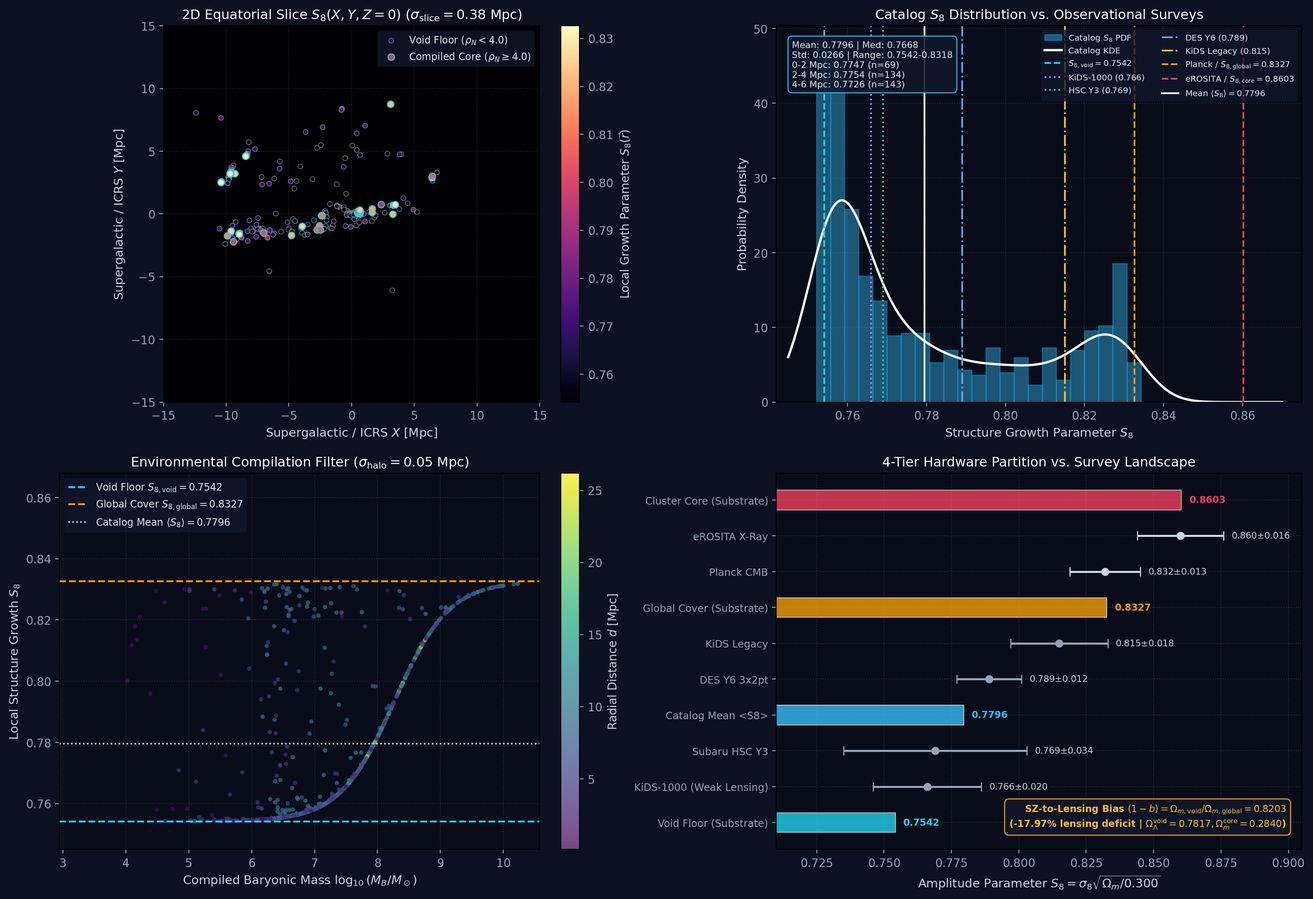
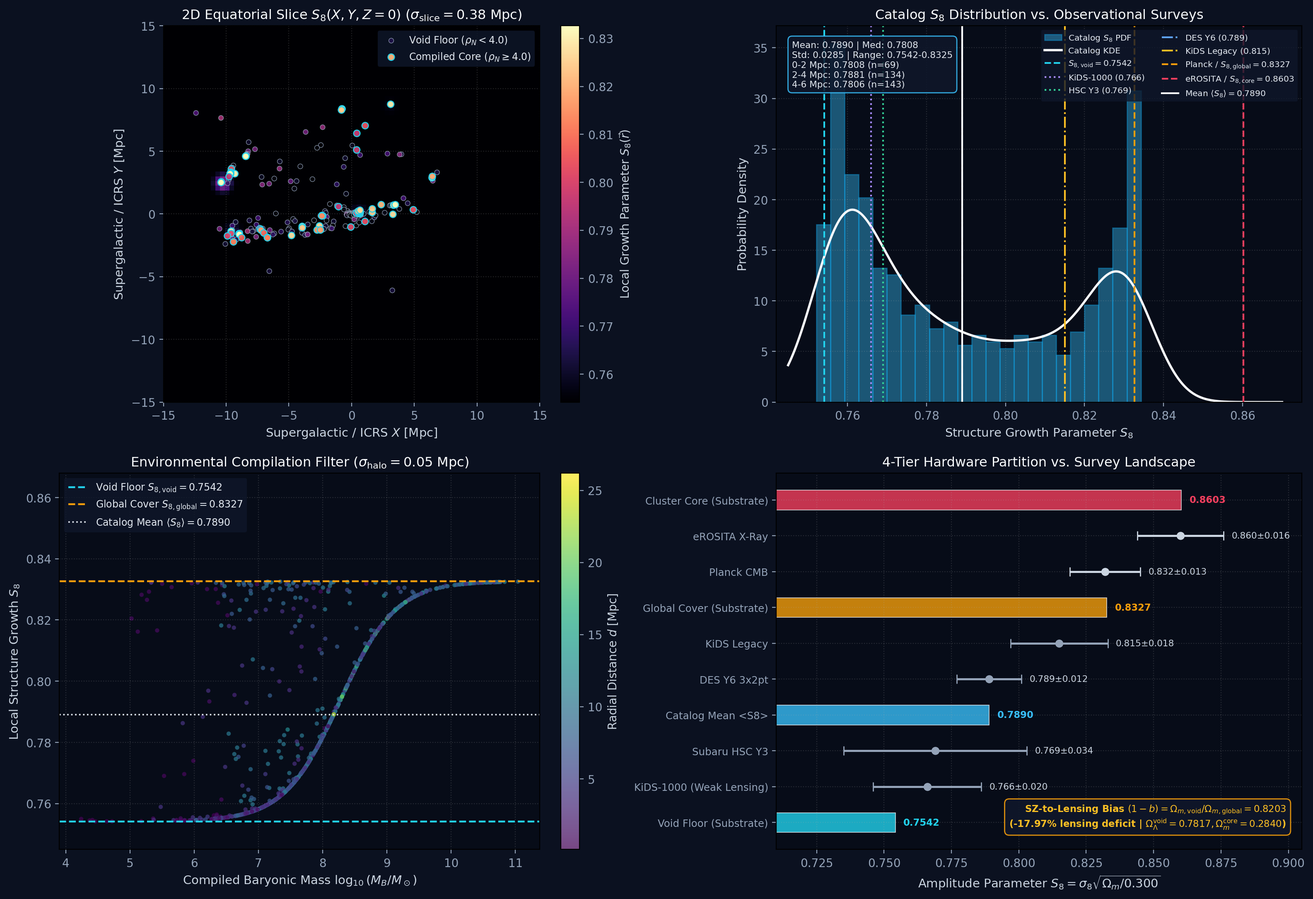
updated documentation and README.md

diff --git a/documentation/readme_substrate_s8_tension.md b/documentation/readme_substrate_s8_tension.md
@@ -2,7 +2,7 @@
 
 ## 🌟 Executive Summary
 
-The `substrate_s8_tension` module resolves the cosmological $S_8$ weak-lensing tension ($S_8 \approx 0.76\text{--}0.77$ from cosmic shear surveys vs. $S_8 \approx 0.832$ from Planck CMB) as a direct environmental consequence of the **120-cell topological compilation filter** at $\rho_{\text{GC}} = 4.0\text{ nodes/m}^3$. Rather than introducing decaying dark matter or modified primordial power spectra, the engine evaluates dynamic local matter partitions $\Omega_m(\vec{r})$ and structure growth amplitudes $S_8(\vec{r})$ straight from 3D compiled baryonic node density $\rho_N(\vec{r})$ across active survey catalogs.
+The `substrate_s8_tension` module resolves the cosmological $S_8$ weak-lensing tension ($S_8 \approx 0.76\text{--}0.77$ from cosmic shear surveys vs. $S_8 \approx 0.832$ from Planck CMB) as a direct environmental consequence of the **120-cell Two-Condition Compilation Gate**: density threshold $\rho_{\text{GC}} = 4.0\text{ nodes/m}^3$ combined with the zero-parameter **Absolute Bandwidth Phase-Lock Criterion** $\Lambda_{\text{lock}} \ge 1.0$. The module contains two coupled observatories (`run_s8_tension_analysis` and `run_two_condition_phase_audit`): evaluating dynamic local matter partitions $\Omega_m(\vec{r})$ and structure growth amplitudes $S_8(\vec{r})$ across active multi-band catalogs, and mapping compiled $\Gamma$-phase matter vs. passive $I$-phase plasma (WHIM filaments, Non-Cool-Core Coma, Solar Wind) across 16 astrophysical regimes.
 
 ---
 
@@ -35,28 +35,65 @@ $$\Omega_{m,\text{core}} = 0.2840 \implies S_{8,\text{core}} = 0.8603$$
 
 $$1 - b = \frac{\Omega_{m,\text{void}}}{\Omega_{m,\text{global}}} = 0.8203 \quad (-17.97\% \text{ lensing mass deficit})$$
 
+### 3. Zero-Parameter Two-Condition Compilation Gate (`evaluate_two_condition_compilation_gate`)
+
+Baryonic gas/matter transitions into active $\Gamma$-phase compiled nodes ($\Theta_{\text{compiled}} = 1$) if and only if both the spatial Garbage-Collection ceiling **and** the Absolute Bandwidth Phase-Lock condition are satisfied:
+
+$$\Theta_{\text{compiled}} = \Theta(\rho_N - 4.0) \cdot \Theta(\Lambda_{\text{lock}} - 1.0), \quad \Lambda_{\text{lock}} = \frac{g_{\text{river}}^2 + g_{\text{EM}}^2}{v_{\text{th}}^2 + v_{\text{bulk}}^2}$$
+
+where $g_{\text{river}}^2 = \frac{2 N_{\text{enc}} \mathcal{K}_\Omega}{R c^2}$, $g_{\text{EM}}^2 = \frac{2 E_{\text{Ryd}}}{\mu m_p c^2}$, and all electromagnetic phase-lock constants are derived without free parameters from $\alpha^{-1} = 137.035999084$ and $m_p/m_e = 1836.15267343$:
+
+$$E_{\text{Ryd}} = \frac{m_p c^2}{2 (m_p/m_e) (\alpha^{-1})^2} = 13.6057\text{ eV} \implies T_{\text{lock}} = \frac{2 E_{\text{Ryd}}}{3 k_B} = 105,258\text{ K}$$
+
+* **Multi-Band Catalog Impact (`UNG 2013` & `Cosmicflows-4`):** Switching from legacy constant $M/L_B = 0.44$ to the `v2` Multi-Band pipeline (`100% K-band` on `UNG 2013`; `27% WISE W1 | 73% Fallback` on `Cosmicflows-4`) shifts catalog $\langle S_8 \rangle$ from `0.7796` → `0.7890` (`UNG 2013`) and `0.8317` → `0.8313` (`Cosmicflows-4`).
+
 ---
 
 ## 📊 Visual Diagnostic Walkthrough
 
+### Tab A — 3D Catalog $S_8$ Field (`run_s8_tension_analysis`)
+
 ![Substrate S8 Weak Lensing Tension Observatory](plot_substrate_s8_tension.png)
 
 1. **Top-Left — 2D Equatorial Slice ($Z = 0$):** Renders continuous $S_8(X, Y, Z=0)$ contours bounded between $S_{8,\text{void}} = 0.7542$ and $S_{8,\text{global}} = 0.8327$, highlighting compiled core galaxies ($\rho_N \ge 4.0$).
-2. **Top-Right — Catalog PDF & 2026 Survey Benchmarks:** Overlays the catalog $S_8$ distribution against KiDS-1000 (`0.766`), Subaru HSC Y3 (`0.769`), DES Y6 (`0.789`), KiDS Legacy (`0.815`), Planck CMB (`0.832`), and eROSITA X-Ray (`0.860`).
+2. **Top-Right — Catalog PDF & 2026 Survey Benchmarks:** Overlays the Multi-Band (`v2`) catalog $S_8$ distribution against KiDS-1000 (`0.766`), Subaru HSC Y3 (`0.769`), DES Y6 (`0.789`), KiDS Legacy (`0.815`), Planck CMB (`0.832`), and eROSITA X-Ray (`0.860`).
 3. **Bottom-Left — Mass-Environment Scaling:** Plots $\log_{10}(M_B/M_\odot)$ against local $S_8$, showing dwarf voids locked onto $0.7542$ while massive compiled systems climb toward $0.8327$.
 4. **Bottom-Right — 4-Tier Partition & Cluster Bias:** Contrasts all four Substrate hardware partitions directly against weak-lensing, CMB, and X-ray survey error bars with the zero-parameter $(1-b) = 0.8203$ bias badge.
+
+### Tab B — Two-Condition Compilation Gate & Cool-Core ICM (`run_two_condition_phase_audit`)
+
+![Two-Condition Compilation Gate & Cool-Core ICM Transition](plot_substrate_two_condition_phase_gate.png)
+
+1. **Left — 4-Quadrant Compilation Phase Diagram ($\log_{10}\rho_N$ vs. $\log_{10}\Lambda_{\text{lock}}$):**
+   * **Sub-Threshold Void Floor (`C1 = 0`, `PASSIVE`):** `Cosmic Void`, `Diffuse IGM`.
+   * **Super-Density Passive $I$-Phase Plasma (`C1 = 1, C2 = 0`, `PASSIVE`):** `Dense WHIM Filament`, `Cluster Outskirts (r500)`, `Hot Galactic Halo / CGM`, `Non-Cool-Core Coma`, `Cool-Core Perseus (20 kpc)`, and outbound `Solar Wind (1 AU)` ($v_{\text{bulk}} = 440\text{ km/s}$).
+   * **Compiled $\Gamma$-Phase Matter (`C1 = 1, C2 = 1`, `COMPILED`):** `Cool-Core Perseus (5 kpc)`, `Cool-Core H-alpha Filaments`, `DDO 154 HI Disk`, `Cold ISM / GMC`, `99942 Apophis`, `Earth`, `Sun`, and `Crab Pulsar`.
+2. **Right — Cool-Core vs. Non-Cool-Core ICM Radial Transition ($\Lambda_{\text{lock}}(r)$, `1–300 kpc`):** Demonstrates Cool-Core Perseus crossing into the compiled $\Gamma$-phase inside $r_{\text{lock}} = 5.42\text{ kpc}$ near its central BCG, whereas hot Non-Cool-Core Coma remains strictly passive ($\Lambda_{\text{lock}} < 0.03$) everywhere — yielding a falsifiable $(1-b)$ lensing split between relaxed cool-core and merging non-cool-core clusters.
 
 ---
 
 ## 🎯 KPI Metrics & Export Deliverables
 
+### Tab A (`substrate_s8_weak_lensing_field.csv`)
+
 | Metric Key | Format / Benchmark | Physical Meaning |
 | :--- | :--- | :--- |
 | `Void Floor (S8_void)` | `0.7542` | Bare uncompiled void structure growth limit $`S_{8,\text{void}}`$. |
-| `Catalog Mean <S8>` | Float (`.4f`) | Mean $`\langle S_8 \rangle`$ across evaluated survey galaxies. |
+| `Catalog Mean <S8>` | Float (`.4f`) | Mean $`\langle S_8 \rangle`$ across evaluated survey galaxies (`0.7890` UNG `v2`, `0.8313` CF4 `v2`). |
 | `Global Baseline (S8_global)` | `0.8327` | Compiled full-cover amplitude $`S_{8,\text{global}}`$ matching Planck CMB. |
 | `Cluster Core (S8_core)` | `0.8603` | Saturated cluster core amplitude $`S_{8,\text{core}}`$ matching eROSITA X-Ray. |
 | `SZ-Lensing Bias (1 - b)` | `0.8203 (-17.97%)` | Zero-parameter hydrostatic bias ratio $`\Omega_{m,\text{void}} / \Omega_{m,\text{global}}`$. |
 
-* **CSV Export Schema (`substrate_s8_weak_lensing_field.csv`):**
-  * `galaxy_name`, `distance_mpc`, `baryonic_mass_solar`, `rho_N_nodes_m3`, `theta_activation`, `omega_m_local`, `S8_local`.
+* **CSV Columns:** `galaxy_name`, `distance_mpc`, `baryonic_mass_solar`, `rho_N_nodes_m3`, `theta_activation`, `omega_m_local`, `S8_local`.
+
+### Tab B (`substrate_two_condition_phase_gate.csv`)
+
+| Metric Key | Format / Benchmark | Physical Meaning |
+| :--- | :--- | :--- |
+| `Bohr Unlock Temp (T_lock)` | `105,258 K (13.61 eV)` | Electromagnetic phase-lock thermal limit derived from $`E_{\text{Ryd}}`$. |
+| `Benchmarks Compiled` | `8 / 16 Regimes` | Verified count passing both `C1` and `C2` (`8 PASSIVE / 8 COMPILED`). |
+| `Cool-Core Crossover (r_lock)` | `5.42 kpc (Perseus)` | Inner cluster radius where Perseus ICM crosses $`\Lambda_{\text{lock}} \ge 1.0`$. |
+| `Custom Probe Λ_lock` | Scientific (`.3e`) | Live user-configured parcel phase-lock ratio $`\Lambda_{\text{lock}}`$. |
+| `Custom Gate Verdict` | `COMPILED` / `PASSIVE` | Active compilation gate state ($\Gamma$-Phase vs. $I$-Phase). |
+
+* **CSV Columns:** `Regime`, `rho_N_nodes_m3`, `T_K`, `r_grav`, `r_em`, `Lambda_lock`, `Cond1_rho>=4`, `Cond2_Lock>=1`, `Verdict`.

diff --git a/README.md b/README.md
@@ -6,7 +6,7 @@
 [![Python 3.10+](https://img.shields.io/badge/python-3.10+-3776AB.svg?style=flat&logo=python&logoColor=white)](https://www.python.org/)
 [![License: MIT](https://img.shields.io/badge/License-MIT-yellow.svg)](LICENSE)
 
-An interactive, first-principles cosmological simulation engine and observatory. **Substrate Logistics** replaces empirical curve-fitting parameters (Dark Energy $\Omega_\Lambda$, Cold Dark Matter halos, and FLRW single-scalar constraints) with a zero-parameter metric unspooling framework driven directly by 3D compiled matter density fields $\rho_N(\vec{r})$ across real astronomical catalogs (UNG 2013, Cosmicflows-4, 2M++).
+An interactive, first-principles cosmological simulation engine and observatory. **Substrate Logistics** replaces empirical curve-fitting parameters (Dark Energy $\Omega_\Lambda$, Cold Dark Matter halos, and FLRW single-scalar constraints) with a zero-parameter metric unspooling framework driven directly by 3D compiled matter density fields $\rho_N(\vec{r})$ across real astronomical catalogs (`UNG 2013`, `Cosmicflows-4`, `2M++`) via a **4-tier Multi-Band & Color-Dependent Stellar Mass Pipeline** (near-IR $K_s$, WISE W1, Bell+03 $B-V$, with legacy constant $M/L$ comparison toggle) and the zero-parameter **Two-Condition Compilation Gate**.
 
 ---
 
@@ -30,6 +30,7 @@ Before exploring the individual modules, read our **[Comparative Architecture Gu
 | **Structure Growth** | $S_8$ | `0.7542 / 0.8327` | Void / Global 120-cell partition |
 | **Disk Truncation Cliff** | $`\frac{1}{2}\ln(1/\mathcal{C}_\delta)`$ | `3.8291` | $R_d$ (2D exponential disk cutoff) |
 | **BAO Natural Ruler** | $r_s$ | `149.25` | $\text{Mpc}$ (First-principles acoustic scale) |
+| **Bohr Phase-Lock Scale** | $`E_{\text{Ryd}} / T_{\text{lock}}`$ | `13.6057 eV / 105,258 K` | Zero-parameter EM unlock ($\alpha^{-1}$, $m_p/m_e$) |
 
 ---
 
@@ -91,7 +92,7 @@ Focuses on bare-metal geometric rulers, hybrid CMB dipole shifts, and optical li
 | **BAO Ruler Warping** | <img src="documentation/plot_substrate_bao_ruler_warping.png" width="300" alt="BAO Ruler Warping" /> | Alcock-Paczynski anisotropic distortion of the $149.25\text{ Mpc}$ acoustic sphere across local filament structures. | [Read Documentation](documentation/readme_substrate_bao_ruler_warping.md) |
 | **CMB Dipole Anomaly** | <img src="documentation/plot_substrate_cmb_dipole_anomaly.png" width="300" alt="CMB Dipole Anomaly" /> | Hybrid Solar motion + line-of-sight redshifting vector sum (J2000 Galactic-to-ICRS aligned), shifting the observable dipole axis toward Centaurus. | [Read Documentation](documentation/readme_substrate_cmb_dipole_anomaly.md) |
 | **Gravitational Lensing** | <img src="documentation/plot_substrate_galactic_lensing.png" width="300" alt="Gravitational Lensing" /> | Zero-dark-matter light deflection separating $1/b$ baryonic address deletion from the linear unspooling tax $4 a_\Omega b / c^2$ and $(1-b) = 0.8203$ cluster bias. | [Read Documentation](documentation/readme_substrate_galactic_lensing.md) |
-| **$S_8$ Weak Lensing Tension** | <img src="documentation/plot_substrate_s8_tension.png" width="300" alt="S8 Weak Lensing Tension" /> | Resolves the weak lensing vs. Planck tension via the $\rho_N \ge 4.0$ compilation filter: $`S_{8,\text{void}} = 0.7542`$, $`S_{8,\text{global}} = 0.8327`$, $`S_{8,\text{core}} = 0.8603`$, and $(1-b)=0.8203$ bias. | [Read Documentation](documentation/readme_substrate_s8_tension.md) |
+| **$S_8$ Weak Lensing Tension** | <img src="documentation/plot_substrate_s8_tension.png" width="300" alt="S8 Weak Lensing Tension" /> | Resolves the weak lensing vs. Planck tension via the **Two-Condition Compilation Gate** ($`\Theta(\rho_N - 4)\Theta(\Lambda_{\text{lock}} - 1)`$): 3D catalog $S_8$ field ($`S_{8,\text{void}} = 0.7542`$, $`S_{8,\text{global}} = 0.8327`$, $`S_{8,\text{core}} = 0.8603`$, $(1-b)=0.8203$) plus 16-regime phase diagram & Cool-Core `r_lock = 5.42 kpc` ICM explorer. | [Read Documentation](documentation/readme_substrate_s8_tension.md) |
 
 ---
 
@@ -191,6 +192,26 @@ This cosmological simulation engine and observatory is grounded in the **Substra
 
 ---
 
+## 📡 Multi-Band Stellar Mass Pipeline & Local Volume Audit
+
+The shared catalog engine ([`modules/data_loader.py`](modules/data_loader.py)) removes the legacy single-band constant `M/L_B = 0.44` dial via a vectorized 4-tier photometric mass estimator (`compute_multiband_stellar_nodes`) persisted in `*_v2.npz` caches (with graceful offline fallback to `v1` caches and a live sidebar toggle between **Multi-Band / Color-Dependent** and **Legacy Constant M/L**):
+
+1. **Tier 1 — Near-IR $K_s$-band (`M/L_K = 0.60`, $M_{K,\odot} = 3.27$):** McGaugh & Schombert (2014) near-IR mass-to-light calibration (full coverage in `UNG 2013` and `2M++` `Ksmag`).
+2. **Tier 2 — Near-IR WISE W1 (`M/L_W1 = 0.50`, $M_{W1,\odot} = 3.24$ Vega):** Lelli et al. (2016) calibration; for `Cosmicflows-4`, cross-matched by `PGC` ID against Kourkchi et al. (2020, `J/ApJ/902/145`) with Jarrett et al. (2011) `W1_Vega = W1_AB - 2.699` conversion.
+3. **Tier 3 — Optical $B - V$ Color (Bell et al. 2003, Table 7):** $\log_{10}(M/L_B) = -0.942 + 1.737(B-V) - 0.15$ (Chabrier/Kroupa IMF offset), clamped to `[0.10, 4.00]`.
+4. **Tier 4 — Single-Band Legacy Fallback:** Falls back to single-band `default_m_l` when multi-band photometry is unavailable.
+
+| Catalog | Mode | N | Photometry Provenance | $`\rho_N(\le 10\text{ Mpc})`$ [nodes/m³] | $`H_{\text{local}}(\le 10\text{ Mpc})`$ [km/s/Mpc] | Module 17 `<S8>` |
+| :--- | :--- | ---: | :--- | ---: | ---: | ---: |
+| UNG 2013 | `legacy` | 846 | Legacy Constant `M/L` (`v2`) | `0.00251` | `68.92` | `0.7796` |
+| UNG 2013 | `multiband` | 846 | `100% K-band` (`v2`) | `0.01279` | `70.80` | `0.7890` |
+| Cosmicflows-4 | `legacy` | 17,511 | Legacy Constant `M/L` (`v2`) | `0.00107` | `68.40` | `0.8317` |
+| Cosmicflows-4 | `multiband` | 17,511 | `27% WISE W1 \| 73% Fallback` (`v2`) | `0.00228` | `68.85` | `0.8313` |
+
+*Inside the `10 Mpc` Local Volume, switching `UNG 2013` from legacy `B`-band to 100% near-IR `K`-band lifts `H_local` from `68.92` to `70.80 km/s/Mpc` (`+1.00 km/s/Mpc` vs. CCHP TRGB `69.8 ± 1.9`, `-2.24 km/s/Mpc` vs. SH0ES `73.04 ± 1.04`).*
+
+---
+
 ## 🧪 Verification Benchmark & CLI
 
 Run the headless 18-module verification harness directly from the repository root using [`tools/benchmark_dashboard.py`](tools/benchmark_dashboard.py):
@@ -202,7 +223,9 @@ python tools/benchmark_dashboard.py
 This benchmark validates:
 1. Exact closed-form first-principles constants derived in [`modules/data_loader.py`](modules/data_loader.py) without CODATA $G$.
 2. Orthogonal J2000 Galactic-to-ICRS sky coordinate alignment (`R_GAL_TO_ICRS`) verified against `astropy.coordinates.SkyCoord` (`< 1e-14` error).
-3. Headless execution across all **18 computational modules** (with real local catalog caches or deterministic fallback), verifying non-empty output tables, zero `NaN`/`Inf` numeric values, and clean Matplotlib renders alongside physics regression checks.
+3. Headless execution across all **18 computational modules** under `mass_mode="multiband"` (with real local catalog caches or deterministic fallback), verifying non-empty output tables, zero `NaN`/`Inf` numeric values, and clean Matplotlib renders alongside physics regression checks.
+4. Zero-parameter **Two-Condition Compilation Gate** regression checks verifying `E_Ryd = 13.6057 eV`, `T_lock = 105,258.34 K`, Cool-Core Perseus `r_lock = 5.42 kpc`, and exact `8 PASSIVE / 8 COMPILED` verdicts across all 16 astrophysical regimes.
+5. **4-Tier Photometric Mass Audit** unit tests and side-by-side `legacy` vs. `multiband` Local Volume `rho_N(<=10 Mpc)`, `H_local`, and `<S8>` comparisons.
 
 ---
 

diff --git a/documentation/readme_spatial_garbage_collection_engine.md b/documentation/readme_spatial_garbage_collection_engine.md
@@ -67,10 +67,10 @@ $$\text{Capacity Used} = \min\left(100, \frac{v_{\text{inflow}}}{c} \times 100\r
 
 * **Algorithmic Pipeline:**
 1. **Load Evaluation:** Computes total compiled proton node count $N = M / m_p$.
-2. **Horizon Computation:** Derives exact speed-of-light commit horizon radius $R_{\text{lock}}$.
+2. **Horizon & Quantum Boundary Computation:** Derives exact speed-of-light commit horizon radius $R_{\text{lock}}$ and top-down quantum boundary radius $R_{\text{quantum}} = (c\bar{\lambda}_p) / (\mathcal{T}_\Omega \sqrt{(\bar{\lambda}_p / N) g_{\text{surface}}})$ (`6,371.20 km` for Earth).
 3. **Grid Construction:** Generates a logarithmic 1D spatial grid $r \in [R_{\text{min}}, R_{\text{max}}]$ across $N_{\text{pts}} = 250$ radial shells.
 4. **Field Evaluation:** Solves address deletion acceleration $g_\Omega(r)$, inflow velocity $v_{\text{inflow}}(r)$, low-orbit bypass velocity $v_{\text{orbit}}(r)$, and discrete sub-node voxel deletion rate $\dot{N}_{\text{pixels}}(r)$.
-5. **UI Rendering:** Assembles a 2-panel dark Matplotlib figure, metric cards, and export DataFrame.
+5. **UI Rendering:** Assembles a 2-panel dark Matplotlib figure, metric cards, magnetospheric shells ($3R$, $4R$, $6.784R$), black-hole boundary unspooling badge, and export DataFrame.
 
 
 
@@ -78,7 +78,7 @@ $$\text{Capacity Used} = \min\left(100, \frac{v_{\text{inflow}}}{c} \times 100\r
 
 ## 📊 Visual Diagnostic Output & Graphics
 
-* **Panel 1 (Spatial Coordinate Address Inflow Profile):** Plots inward address freefall velocity $v_{\text{inflow}}(r)$ alongside the physical boundary radius. For sub-light bodies ($v_{\text{surf}} < 0.5c$), the panel displays an inline **Kernel Lock Safety Badge** with processing headroom percentage. For relativistic targets ($v_{\text{surf}} \ge 0.5c$), it renders the speed-of-light limit line ($1.0c$) and the vertical Event Horizon boundary ($R_{\text{lock}}$).
+* **Panel 1 (Spatial Coordinate Address Inflow Profile):** Plots inward address freefall velocity $v_{\text{inflow}}(r)$ alongside the physical boundary radius. For sub-light bodies ($v_{\text{surf}} < 0.5c$), the panel displays an inline **Kernel Lock Safety Badge** with processing headroom percentage plus vertical markers at the Plasmapause ($3R$, when $r_{\max}/R \ge 4$), Van Allen ($4R$), and Topological Drag Stagnation limit ($6.784R$, when $r_{\max}/R \ge 7$). For Kernel Lock targets ($v_{\text{surf}}/c \ge 0.999$), it renders the speed-of-light limit line ($1.0c$), vertical Event Horizon boundary ($R_{\text{lock}}$), and the crimson **`BOUNDARY UNSPOOLING ACTIVE (R_EH): Γ-Phase Matter → I-Phase Radiation (E = mc² Cache Flush)`** badge.
 * **Panel 2 (Substrate Memory Garbage Collection Intensity):** Plots discrete spatial voxel deletion rate $\dot{N}_{\text{pixels}}(r)$ in pixels/second on a logarithmic scale, mapping memory management load across the surrounding space.
 
 ---
@@ -92,6 +92,7 @@ $$\text{Capacity Used} = \min\left(100, \frac{v_{\text{inflow}}}{c} \times 100\r
 | `Escape Velocity (v_escape)` | `km/s` ($c$ ratio) | Inward spatial address freefall velocity $`v_{\text{inflow}} = \sqrt{2 g_\Omega R}`$. |
 | `Low-Orbit Speed (v_orbit)` | `km/s` | Circular orbit bypass speed $`v_{\text{orbit}} = v_{\text{inflow}} / \sqrt{2}`$. |
 | `Surface Pixel Purge Rate` | `pixels/s` | Discrete sub-node voxels ($V_{\text{node}} = 9.3019 \times 10^{-48}\text{ m}^3$) deleted per second. |
+| `Top-Down Quantum Radius` | `km` (`6,371.20 km` Earth) | Top-down holographic boundary $`R_{\text{quantum}} = \frac{c\bar{\lambda}_p}{\mathcal{T}_\Omega\sqrt{(\bar{\lambda}_p/N)g_{\text{surf}}}}`$. |
 | `Kernel Lock Safety Margin` | `%` | Processing headroom remaining $\max(0, 1.0 - v/c) \times 100\%$. |
 
 * **CSV Export Schema (`spatial_garbage_collection_profile.csv`):**

diff --git a/documentation/Comparative Architecture Guide.md b/documentation/Comparative Architecture Guide.md
@@ -20,7 +20,7 @@ $$H_{\text{local}}(\vec{r}) = H_{\text{global}} + \sqrt{\frac{8\pi \mathcal{K}_\
 
 
 * **Integrated Ray-Tracing Path:** Photon redshift accumulation is evaluated via direct line-of-sight path integration through the actual 3D cosmic web ($cz_{\text{exp}} = \int_0^d H_{\text{local}}(s) \, ds$), eliminating the artificial separation between expansion and peculiar velocity.
-* **Zero-Parameter Convergence:** Unspooling dynamically adapts to the matter distribution along the sightline. Evaluating small, dense volumes reflects local filament density, while integrating over large homogenizing volumes ($\ge 40\text{ Mpc}$) automatically relaxes the average unspooling rate down to the fundamental vacuum floor ($H_{\text{global}} = 67.4275\text{ km/s/Mpc}$).
+* **Zero-Parameter Convergence & Phase Gating:** Unspooling dynamically adapts to the matter distribution along the sightline. Evaluating small, dense volumes reflects local filament density, while integrating over large homogenizing volumes ($\ge 40\text{ Mpc}$) automatically relaxes the average unspooling rate down to the fundamental vacuum floor ($H_{\text{global}} = 67.4275\text{ km/s/Mpc}$). Furthermore, the **Two-Condition Compilation Gate** ($\Theta(\rho_N - 4.0)\,\Theta(\Lambda_{\text{lock}} - 1.0)$ with $T_{\text{lock}} = 105,258\text{ K}$) ensures that hot diffuse WHIM/ICM plasma remains passive $I$-phase gas rather than falsely sourcing compiled gravity.
 
 ---
 
@@ -41,5 +41,5 @@ $$H_{\text{local}}(\vec{r}) = H_{\text{global}} + \sqrt{\frac{8\pi \mathcal{K}_\
 
 In Substrate Logistics, the **73 km/s/Mpc** and **67.4 km/s/Mpc** values are not in conflict—they measure two distinct physical regimes:
 
-1. **Local Distance Ladder (73–74 km/s/Mpc):** Standard candles (TRGB, Cepheids, SNe Ia) reside within dense local cosmic web filaments ($d < 30\text{--}100\text{ Mpc}$). Photons traversing these overdense corridors accumulate velocity faster due to elevated local node density $\rho_N(\vec{r})$.
+1. **Local Distance Ladder (69.8–74 km/s/Mpc):** Standard candles (TRGB, Cepheids, SNe Ia) reside within dense local cosmic web filaments ($d < 30\text{--}100\text{ Mpc}$). Replacing the single `M/L_B = 0.44` dial with the **4-Tier Multi-Band Stellar Mass Pipeline** (`100% K-band` on `UNG 2013`) raises the enclosed `<= 10 Mpc` density from `0.00251` to `0.01279 nodes/m³`, shifting `H_local(<= 10 Mpc)` from `68.92` to **`70.80 km/s/Mpc`** (`+1.00 km/s/Mpc` vs. CCHP TRGB `69.8 ± 1.9`, `-2.24 km/s/Mpc` vs. SH0ES `73.04 ± 1.04`), while `Cosmicflows-4` (`27% WISE W1`) evaluates to `68.85 km/s/Mpc` at `10 Mpc`.
 2. **CMB Horizon Fits (67.4275 km/s/Mpc):** Sound horizon acoustic peak measurements average across vast, homogenized cosmological distances ($\ge 1000\text{ Mpc}$). Over these immense scales, density spikes average out across empty cosmic voids, locking the global unspooling rate directly onto the fundamental vacuum floor $H_{\text{global}} = 67.4275\text{ km/s/Mpc}$.

diff --git a/documentation/readme_substrate_galactic_lensing.md b/documentation/readme_substrate_galactic_lensing.md
@@ -93,7 +93,7 @@ $$b_{1:1,\text{total}} = \sqrt{\frac{M_{\text{baryon}} \mathcal{K}_\Omega M_\odo
 ## 📊 Visual Diagnostic Output & Graphics
 
 * **Panel 1 (Light Deflection Profile):** Plots total deflection angle $\theta_{\text{total}}(b)$ [red], local baryonic component $\theta_{\text{baryon}}(b)$ [dashed blue], and scaffolding tax $\theta_{\text{scaffold}}(b)$ [dotted purple]. A vertical green guide line highlights the crossover focus $b_{\text{cross}}$ where deflection parity ($50\%$) occurs.
-* **Panel 2 (Dark Matter Halo Illusion):** Plots inferred halo mass $M_{\text{DM}}(b) \propto b^2$ [solid orange] against the true baryonic baseline $M_{\text{baryon}}$ [dashed blue]. A vertical cyan guide line marks the $1:1$ Total Mass Horizon $b_{1:1}$ where $M_{\text{DM,inferred}} = M_{\text{baryon,total}}$.
+* **Panel 2 (Dark Matter Halo Illusion):** Plots inferred halo mass $M_{\text{DM}}(b) \propto b^2$ [solid orange] against the true baryonic baseline $M_{\text{baryon}}$ [dashed blue]. A vertical cyan guide line marks the $1:1$ Total Mass Horizon $b_{1:1}$ where $M_{\text{DM,inferred}} = M_{\text{baryon,total}}$. For cluster-scale lenses ($M_B \ge 10^{12} M_\odot$), a dash-dot magenta horizontal reference line marks the **Weak-Lensing Hydrostatic Baseline** $(1-b) M_B = 0.8203\,M_B$ linking lensing directly to the $S_8$ 120-cell compilation filter (and cool-core vs. non-cool-core phase-lock split).
 
 ---
 
@@ -107,6 +107,7 @@ $$b_{1:1,\text{total}} = \sqrt{\frac{M_{\text{baryon}} \mathcal{K}_\Omega M_\odo
 | `1:1 Total Mass Horizon (b_1:1)` | `kpc` | Impact parameter where $`M_{\text{DM,inferred}} = M_{\text{baryon,total}}`$. |
 | `Deflection @ Crossover` | `arcsec` | Optical light bending angle evaluated at $b_{\text{cross}}$. |
 | `Total Dark/Light @ b_cross` | Ratio (e.g., `0.43 : 1`) | Inferred dark mass relative to total visible baryonic mass at $b_{\text{cross}}$. |
+| `SZ-Lensing Cluster Bias (1-b)` | `0.8203 (-17.97%)` | Zero-parameter hydrostatic cluster mass bias ratio $`\Omega_{m,\text{void}} / \Omega_{m,\text{global}}`$. |
 
 ### CSV Export Schema (`substrate_gravitational_lensing.csv`)
 

diff --git a/documentation/readme_substrate_cmb_dipole_anomaly.md b/documentation/readme_substrate_cmb_dipole_anomaly.md
@@ -107,8 +107,9 @@ The module outputs a full-sky Mollweide projection map ($\Delta T(\theta, \phi)$
 
 ### Survey Catalog Response & Field Scaling (J2000 Galactic-to-ICRS Aligned)
 
-* **UNG 2013 ($\le 35\text{ Mpc}$, $\sigma = 1.8\text{ Mpc}$):** Net shifted dipole axis at `(264.7°, +47.6°)` with composite amplitude `3.297 mK`.
-* **Cosmicflows-4 ($\le 150\text{ Mpc}$, $\sigma = 2.0\text{ Mpc}$):** Integrates across the Great Attractor and Laniakea corridors, shifting the dipole axis to `(270.5°, +43.7°)` (~`6.2°` angular shift, `2.934 mK`).
-* **2M++ Infrared ($\le 200\text{ Mpc}$, $\sigma = 3.5\text{ Mpc}$):** Full-sky coverage out to $200\text{ Mpc}$ shifts the net dipole axis to `(259.6°, +51.7°)` (~`4.7°` shift, `2.959 mK`).
+* **UNG 2013 ($\le 35\text{ Mpc}$, $\sigma = 1.8\text{ Mpc}$, Legacy `M/L`):** Net shifted dipole axis at `(264.7°, +47.6°)` with composite amplitude `3.297 mK`.
+* **Cosmicflows-4 ($\le 150\text{ Mpc}$, $\sigma = 2.0\text{ Mpc}$, Legacy `M/L`):** Integrates across the Great Attractor and Laniakea corridors, shifting the dipole axis to `(270.5°, +43.7°)` (~`6.2°` angular shift, `2.934 mK`).
+* **2M++ Infrared ($\le 200\text{ Mpc}$, $\sigma = 3.5\text{ Mpc}$, Legacy `M/L`):** Full-sky coverage out to $200\text{ Mpc}$ shifts the net dipole axis to `(259.6°, +51.7°)` (~`4.7°` shift, `2.959 mK`).
+* **Multi-Band Photometry (`v2` Cache) Shift:** Switching to the Multi-Band Stellar Mass Pipeline updates per-galaxy compiled weights (`27% WISE W1` on Cosmicflows-4, `Ksmag` on 2M++, `100% K-band` on UNG 2013) and automatically invalidates cached HEALPix maps via `catalog_sig` (e.g., Cosmicflows-4 at `d_max=35 Mpc`, `nside=16`: axis `(266.3°, +47.5°)`, `3.118 mK`).
 
 ---

diff --git a/documentation/readme_substrate_bulk_flow_field.md b/documentation/readme_substrate_bulk_flow_field.md
@@ -17,7 +17,7 @@ $$H_{\text{local}}(\vec{r}) = H_{\text{global}} + \Theta(\rho_N(\vec{r}) - \rho_
 Where:
 * $H_{\text{global}} = 67.4275\text{ km/s/Mpc}$ is the global hardware vacuum floor.
 * $\mathcal{K}_\Omega = 1.11592 \times 10^{-37}\text{ m}^3/(\text{node}\cdot\text{s}^2)$ is the Substrate Anchor Constant.
-* $\Theta$ enforces the Garbage Collection compilation threshold ($\rho_{\text{threshold}} = 4.0\text{ nodes/m}^3$), which applies at the stellar/galactic phase level prior to Mpc-scale Gaussian smoothing.
+* $\Theta$ enforces the Two-Condition Compilation Gate ($\Theta(\rho_N - 4.0)\,\Theta(\Lambda_{\text{lock}} - 1.0)$ with Bohr thermal unlock scale $T_{\text{lock}} = 105,258\text{ K}$), which filters cold compiled galaxies from hot diffuse WHIM/ICM plasma at the stellar/galactic phase level prior to Mpc-scale Gaussian smoothing.
 
 ### 2. Inflow Peculiar Velocity Vector
 Galactic motion is directed toward higher spatial processing throughput. The peculiar inflow vector $\vec{v}_{\text{inflow}}(\vec{r})$ is proportional to the spatial gradient of $H_{\text{local}}(\vec{r})$:
